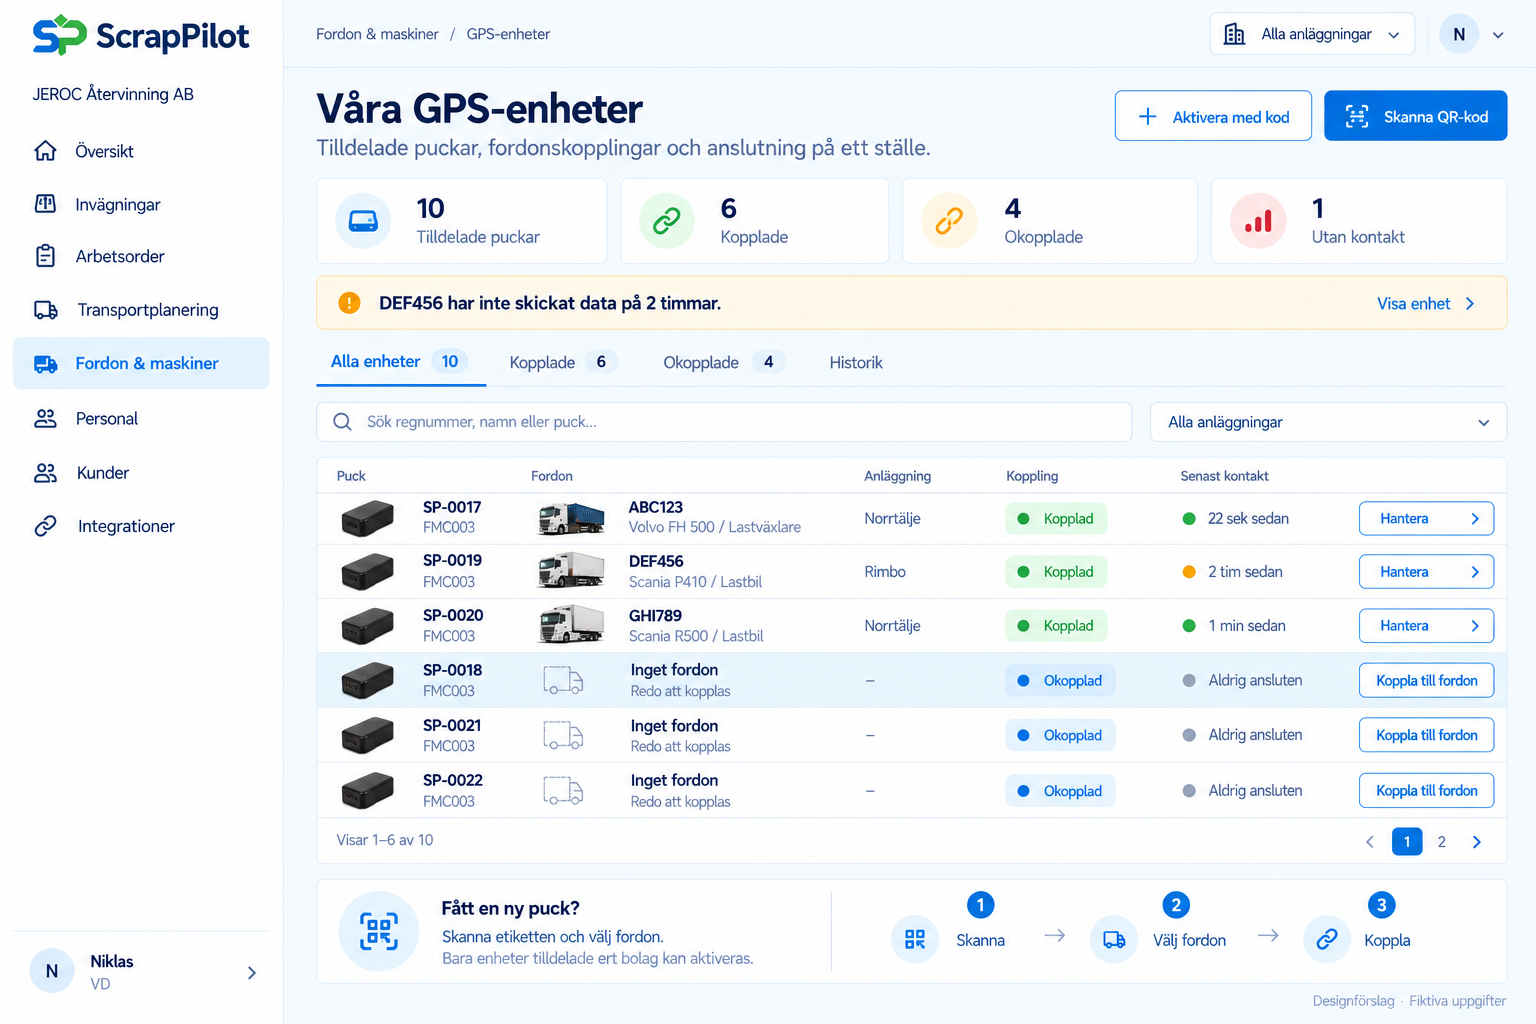
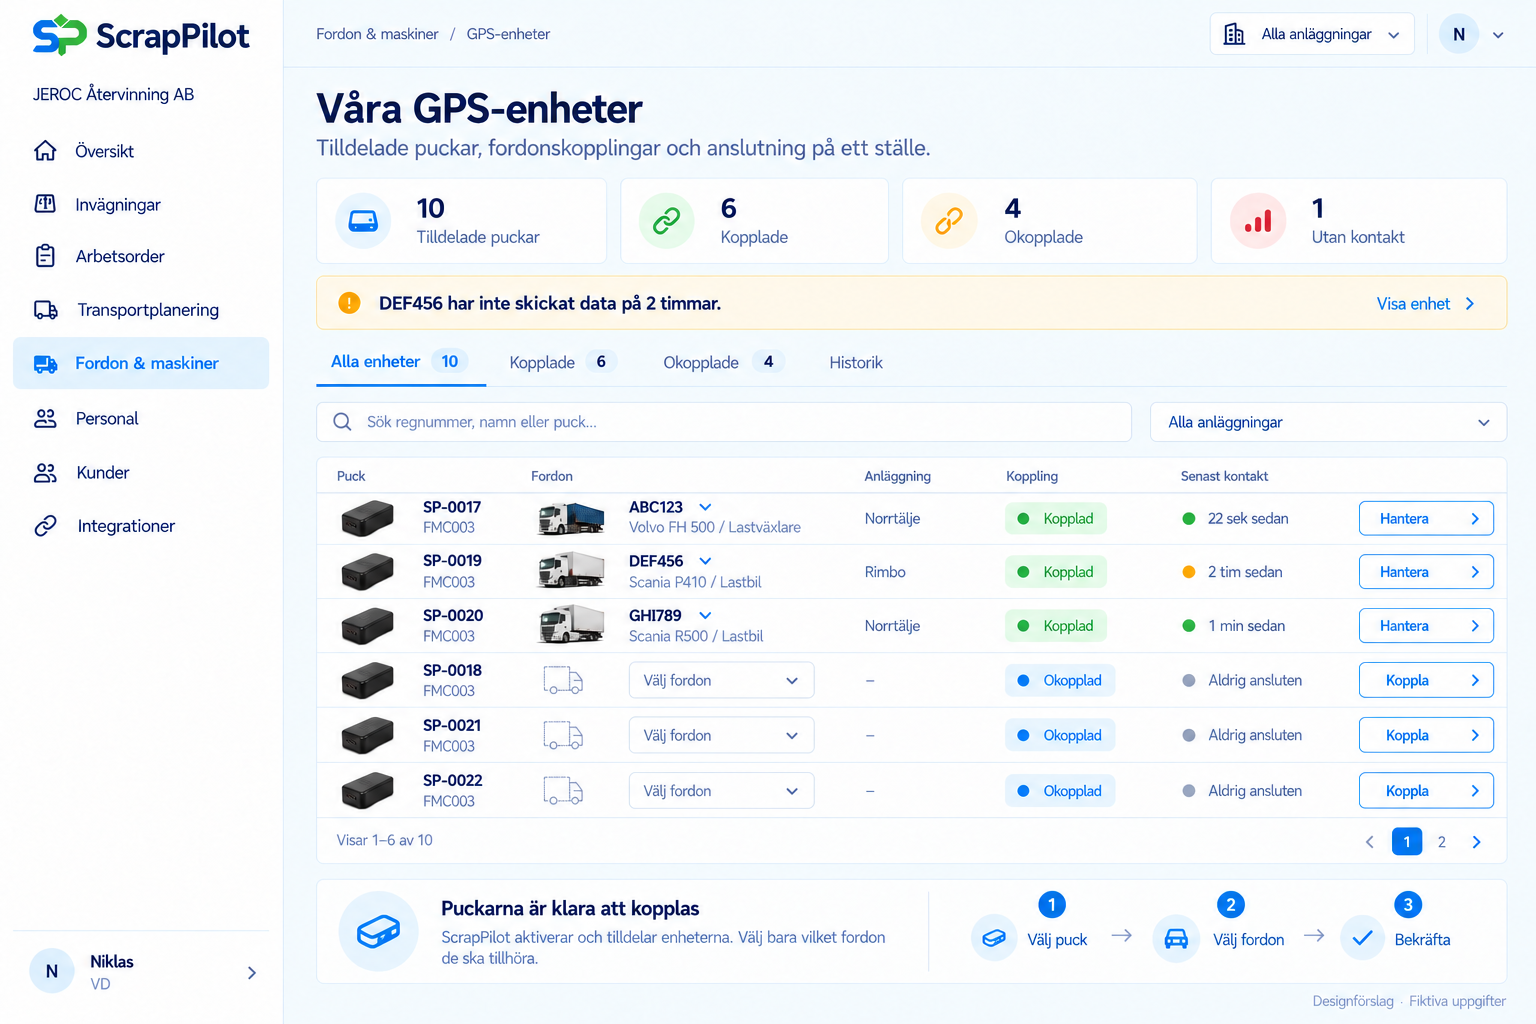
docs: centralize tracker activation and define vehicle transfer workflow

diff --git a/docs/integrationer/telematik/enhetskoppling.md b/docs/integrationer/telematik/enhetskoppling.md
@@ -1,0 +1,67 @@
+# Enhetskoppling och fordonsbyte
+
+**Designkrav för granskning – inte implementerad funktion.** Underlaget beskriver hur en redan förberedd telematikpuck ska kopplas till och flyttas mellan befintliga fordon. Det aktiverar ingen fysisk enhet eller produktionskoppling.
+
+## Ansvar och ordinarie koppling
+
+**SaaS-/systemadmin förbereder enheten:** SIM och abonnemang aktiveras, APN, serveradress, enhetsprofil och säker transport konfigureras. Därefter tilldelas pucken ett bolag. Provisionering och anslutningsskydd hanteras av systemet; IMEI är en identifierare, inte autentisering.
+
+**Bolaget kopplar ett fordon:** en behörig användare öppnar pucken i listan över bolagets egna tilldelade enheter och väljer ett befintligt fordon i dess rullgardin. Fordonsvalet är det enda ordinarie valet. Ingen QR-kod, kundaktivering eller kundkonfiguration av SIM/APN/server ingår.
+
+Rullgardinen ändrar inte kopplingen på egen hand. För en ledig puck visas en kort bekräftelse; för en redan kopplad puck öppnas rutinen **Byt fordon** med tydligt Från → Till.
+
+Första kopplingen:
+
+1. Säkerställ att fordonets motor är avstängd och installera pucken.
+2. Välj den lediga pucken och rätt fordon. Visa fordonets namn och registreringsnummer eller maskin-ID före bekräftelse.
+3. Bekräfta kopplingen. Servern kontrollerar behörighet, bolag och att både pucken och fordonet är lediga, och skapar kopplingsintervallet atomiskt.
+
+**Kopplad** och **Kontakt mottagen** är olika uppgifter. En sparad koppling får exempelvis visa *Inväntar första kontakt*. Utebliven kontakt ska ge tydlig status och felsökning, inte automatiskt byta fordon eller påstå att installationen verifierats.
+
+## Flytta en puck till ett annat fordon
+
+Bolaget gör bytet i två uttryckliga steg. Enheten får inte skriva nya resor på det nya fordonet innan båda stegen är klara.
+
+| Steg | Användarens åtgärd | Serverns ändring |
+| --- | --- | --- |
+| **1. Påbörja byte** | Välj nytt befintligt fordon. Säkerställ att gamla fordonets resa är avslutad och motorn avstängd. Tryck **Påbörja byte**. | Stäng gamla kopplingsintervallet, sätt pucken till **Under flytt** och reservera det nya fordonet. Allt sker i samma transaktion. |
+| **2. Bekräfta flytt** | Flytta pucken fysiskt. Med det nya fordonets motor avstängd, kontrollera valt fordon och tryck **Bekräfta flytt**. | Avsluta flyttläget och påbörja det nya kopplingsintervallet atomiskt. Visa första kontakt separat, exempelvis **Kopplad – inväntar första kontakt**. |
+
+Vid aktiv resa, påslagen motor eller okänd resstatus får normalbytet inte påbörjas. Ingen kontakt betyder inte att resan är avslutad. Ett timeoutvärde får aldrig automatiskt avsluta en verklig resa eller göra bytet tillåtet.
+
+En trasig eller försvunnen puck behöver ett separat undantagsflöde för särskilt behörig personal: uttrycklig manuell bryttid, obligatorisk orsak och spårbar granskning av osäkra resor och mätvärden. Åtgärden får inte skapa ett påhittat observerat resslut eller dölja att tiden är manuellt angiven.
+
+## Avbryt och återgå
+
+- **Före Påbörja byte:** avbryt stänger dialogen utan att ändra kopplingen.
+- **Efter Under flytt:** ett avbryt får inte automatiskt återöppna den gamla kopplingen. Systemet vet inte var pucken sitter.
+- Återgång kräver ett uttryckligt val och bekräftad fysisk återinstallation i det gamla fordonet med motorn avstängd. Servern skapar då ett nytt kopplingsintervall till det gamla fordonet och frigör reservationen av det nya.
+- Tidigare stängda intervall och flytthistoriken bevaras. Utan bekräftad återinstallation förblir pucken under flytt; ingen automatisk återkoppling sker.
+
+Flyttläget sparas på servern. Om webbläsaren stängs eller laddas om visas pucken fortfarande som **Under flytt**, med åtgärden **Fortsätt byte**. Behörig personal kan fortsätta till bekräftelse eller välja den uttryckliga återinstallationen; en klienttimeout får inte tyst återställa kopplingen.
+
+## Historik, sena paket och mätarställning
+
+Varje koppling har ett eget ID, fordon, bolag, start- och sluttid samt spårbar aktör. Historiska resor och mätningar behåller sin ursprungliga fordonskoppling; de får inte flyttas när puckens aktuella fordon ändras.
+
+Mottagaren bevarar både enhetens händelsetid och serverns mottagningstid. Sena eller buffrade poster som säkert hör till det gamla intervallet ska hänföras dit. Felställd enhetsklocka, överlappande/osäkra tider och poster runt flyttgränsen kräver granskning. En aktuell koppling får inte användas som genväg för att lägga gammal buffrad körning på det nya fordonet.
+
+Data från tiden **Under flytt** får inte skapa nya fordonsresor. De hanteras separat som flytt-/granskningsuppgifter, inte som bevis för körning med det gamla eller nya fordonet. Ett mottaget paket eller en första kontakt avslutar inte flyttläget på egen hand.
+
+Enhetens virtuella GPS-mätare kan innehålla körsträcka från det gamla fordonet. Dess absoluta värde får därför inte bli det nya fordonets mätarställning. Vid ny koppling fastställs en ny baseline och mätarkälla, exempelvis fordonsavläst OEM-värde, manuell avläsning eller virtuell sträcka från kopplingstillfället. Okänd baseline visas som okänd och kompletteras; den får inte fyllas med gamla bilens mil.
+
+**Standardföraren följer fordonet.** Puckens föregående standardförare eller senaste observerade förar-ID får inte följa med till nästa fordon. Historiska föraruppgifter bevaras på sina resor och tolkas utifrån resans tid.
+
+## Behörighet, samtidighet och säkerhet
+
+- Servern kontrollerar aktuell behörighet och åtkomst till bolagets puck och berörda fordon vid varje steg. En rullgardin i klienten är ingen behörighetskontroll.
+- En puck får ha högst en aktiv fordonskoppling och ett fordon högst en aktiv puck. En pågående flytts reservation ska också hindra konkurrerande kopplingar och byten.
+- Stängning, reservation och öppning låses och sparas atomiskt. Föråldrade val avvisas utan delvis genomfört byte. Dubbeltryck och återförsök ska vara idempotenta och återge samma bekräftade resultat.
+- Historiken visar vem som påbörjade, bekräftade, återförde eller manuellt bröt en koppling, när det skedde och eventuell orsak. En omstart eller ett anslutningsavbrott får inte återaktivera en gammal koppling.
+- **Bolagsbyte är inte ett vanligt fordonsbyte.** Det får endast göras av systemadmin i ett separat överlåtelseflöde som hanterar anslutningsuppgifter, buffrad data och säker brytpunkt. Det nya bolaget får ingen åtkomst till gamla bolagets CRM-data, resor eller historik.
+
+## Kontrollfall inför implementation
+
+Första koppling, normalt tvåstegsbyte och bekräftad återinstallation ska kunna granskas var för sig. Prova också aktiv/okänd resa, utebliven första kontakt, trasig puck med manuell bryttid, sena paket, mätarbaseline, samtidiga byten och dubbla bekräftelser. Misslyckad serverlagring ska behålla det tidigare bekräftade läget och ge ett tydligt fel; klienten får inte visa bytet som färdigt i förväg.
+
+Den befintliga [telematikgrunden](README.md) och [syntetiska mottagartjänsten](mottagartjanst.md) är separata från dessa planerade administrationsflöden.

diff --git a/docs/mockups/fordon-telematik/README.md b/docs/mockups/fordon-telematik/README.md
@@ -12,12 +12,14 @@ Sidan samlar 20 bilder för granskning av webb, app och hårdvara. Bilderna är 
 | --- | ---: | --- |
 | [Daglig webb](#daglig-webb) | 6 | Fordon, fordonskort, underhåll, körjournal, förare och karta. |
 | [Daglig app](#daglig-app) | 5 | Mitt fordon, resehistorik, komplettering och fordonskontroll. |
-| [Enhetsadmin](#enhetsadmin) | 4 | Systemadmins lager, bolagets enheter, fordonskoppling och aktivering. |
+| [Enhetsadmin](#enhetsadmin) | 4 | Systemadmins lager, bolagets enheter, fordonskoppling och fordonsbyte. |
 | [Export](#export) | 2 | Exportval och förhandsvisning av körjournal. |
 | [Test och hårdvara](#test-hardvara) | 3 | Digital testbil och ett möjligt fysiskt förarpanelskoncept. |
 | **Totalt** | **20** | **12 tidigare bilder och 8 kompletterande bilder.** |
 
 **Navigation:** Fordon & maskiner öppnar den vanliga fordonsöversikten. Körjournal och GPS-enheter hör till samma arbetsyta; GPS-enheter är en sekundär flik för administration, inte bolagets huvudingång. Systemadmins centrala enhetslager är separat.
+
+**Reviderat upplägg:** ScrapPilot förbereder, aktiverar och tilldelar puckarna till bolaget. Bolaget väljer bara fordon i en dropdown. Appaktivering och QR-engångskoder är bortvalda; bilden för detta har ersatts av ett fordonsbyte.
 
 **Gemensamt före/efter-scenario:** De tidigare appbilderna visar klockan **08:52 den 16 oktober 2026**, då två resor ännu behöver kompletteras. De nya vardags- och exportbilderna visar **09:05 samma dag**, efter att uppgifterna sparats. Exemplet gäller **Niklas**, **PQR678 · Servicebilen · VW Transporter**, med **JEROC Norrtälje** som utgångspunkt:
 
@@ -142,7 +144,9 @@ Förbered puckar, hantera enhetsprofiler och tilldela enheter till rätt bolag. 
 
 ![Bolagets tilldelade GPS-enheter med kopplade och okopplade puckar](../telematikenheter/02_Bolag_GPS_enheter.png)
 
-Bolaget ser bara sina tilldelade enheter på den sekundära fliken GPS-enheter. Livscykelstatus och anslutningsstatus är olika uppgifter; en levererad puck behöver inte vara uppkopplad.
+Bolaget ser bara sina redan aktiverade, tilldelade enheter på den sekundära fliken GPS-enheter. I fordonskolumnens dropdown väljs ett befintligt fordon. Livscykelstatus, fordonskoppling och anslutningsstatus är olika uppgifter; en levererad puck behöver inte vara uppkopplad. Kunden ska inte aktivera eller skanna enheten.
+
+En ledig puck får en kort kopplingsbekräftelse. Ändras valet för en redan kopplad puck öppnas **Byt fordon**; själva dropdownvalet flyttar inte några resor eller ändrar kopplingen direkt.
 
 [Öppna i full storlek](../telematikenheter/02_Bolag_GPS_enheter.png)
 
@@ -150,19 +154,19 @@ Bolaget ser bara sina tilldelade enheter på den sekundära fliken GPS-enheter. 
 
 ![Förslag till sökbart fordonsval vid koppling av en telematikenhet](../telematikenheter/03_Koppla_puck_till_fordon.png)
 
-Sök ett befintligt fordon och bekräfta vilken puck som ska kopplas till det. Byte av fordon får inte flytta gamla resor till den nya fordonskopplingen.
+Välj ett befintligt fordon i dropdownen och bekräfta kopplingen för en redan aktiverad puck. Tidigare resor ändras inte. Första kontakt visas separat när pucken väl är installerad och skickar data.
 
 [Öppna i full storlek](../telematikenheter/03_Koppla_puck_till_fordon.png)
 
-### 15. Aktivera puck i appen
+### 15. Flytta puck till annat fordon
 
-<img src="05_App_Aktivera_puck.png" alt="Appförslag: aktivera en tilldelad puck och koppla den till fordon" width="800">
+![Förslag till fordonsbyte med tydlig från- och tillkoppling](05_Webb_Byt_fordon.png)
 
-Förslag till aktivering efter att rätt bolag fått enheten tilldelad. QR-engångskoden hör till aktiveringen; IMEI identifierar enheten men är inte ett lösenord eller ett bevis på behörighet.
+Välj nytt fordon och se **Från → Till** innan bytet påbörjas. Den gamla resan ska vara avslutad och motorn av. **Påbörja byte** stänger den gamla kopplingen och sätter pucken **Under flytt**. Efter den fysiska flytten bekräftas det nya fordonet i steg 2, medan motorn fortfarande är av.
 
-Skanning och bekräftelse visas som två steg. Förbrukad kod kräver en ny engångskod. **Kopplingen är sparad** och **första kontakt mottagen** är separata statusar; en lyckad aktivering ska inte påstå att pucken redan är online.
+Gamla resor ligger kvar på sitt fordon. Sena eller osäkra mätpunkter får inte automatiskt hamna på det nya fordonet, och puckens gamla mätarvärde får inte bli den nya bilens mätarställning. Pågående resa eller okänt läge efter kontaktavbrott blockerar normalbytet; särskild hantering krävs för en trasig eller frånkopplad puck.
 
-[Öppna i full storlek](05_App_Aktivera_puck.png)
+[Öppna i full storlek](05_Webb_Byt_fordon.png) · [Rutin och specialfall](../../integrationer/telematik/enhetskoppling.md)
 
 <a id="export"></a>
 ## Export

diff --git a/docs/mockups/telematikenheter/README.md b/docs/mockups/telematikenheter/README.md
@@ -5,7 +5,7 @@
 Tre statiska bildmockuper framtagna 2026-10-16. Antal, enhetsuppgifter och fordonskopplingar är exempeldata. JEROC Återvinning AB används som bolagsexempel; övriga bolag är fiktiva. Vyerna beskriver ett förslag och är inte implementerad funktion; denna leverans innehåller ingen ny appkod.
 
 1. [Systemadmins enhetslager](01_Systemadmin_Enhetslager.png) – centralt förberedda puckar, import, enhetsprofiler och bolagstilldelning av flera enheter samtidigt.
-2. [Bolagets GPS-enheter](02_Bolag_GPS_enheter.png) – bolaget ser bara sina tilldelade enheter, uppdelade i kopplade och okopplade, samt QR-aktivering.
+2. [Bolagets GPS-enheter](02_Bolag_GPS_enheter.png) – bolaget ser sina redan aktiverade, tilldelade enheter och väljer befintligt fordon i en dropdown.
 3. [Koppla puck till fordon](03_Koppla_puck_till_fordon.png) – sökbart val av ett befintligt fordon med registreringsnummer och tydlig bekräftelse av kopplingen.
 
 ## Navigation och prioritering
@@ -14,9 +14,11 @@ Förtydligat med användaren 2026-10-16: **Fordon & maskiner öppnar alltid den 
 
 **GPS-enheter är en sekundär flik** i samma arbetsyta, tillsammans med befintliga flikar för service/besiktning, felanmälningar och dokument. Den ska inte vara en egen huvudpost i bolagets vänstermeny eller ersätta fordonslistan. Bild 2 och 3 visar innehållet efter att denna flik har öppnats; fliknavigationen behöver läggas till vid implementation.
 
-Enhetslager, aktivering och koppla/byta puck används vid behov av personer med behörighet, exempelvis VD eller administratör. Relevant position och anslutningsstatus kan visas på det vanliga fordonskortet utan att användaren behöver gå till enhetsadministrationen. Systemadmins centrala lager ligger fortsatt under plattformens Telematik och är separat från bolagets dagliga fordonsvy.
+Systemadmin förbereder och aktiverar puckarna samt tilldelar dem till bolag. Bolagets behöriga personer, exempelvis VD eller administratör, väljer bara vilket befintligt fordon varje tilldelad puck hör till och kan påbörja ett fordonsbyte. Relevant position och anslutningsstatus kan visas på det vanliga fordonskortet utan att användaren behöver gå till enhetsadministrationen. Systemadmins centrala lager ligger fortsatt under plattformens Telematik och är separat från bolagets dagliga fordonsvy.
 
-Bolagstilldelning sker före kundaktivering med QR-engångskod. IMEI är en identifierare och används inte som autentisering. Livscykelstatus, exempelvis förberedd eller levererad, visas separat från anslutningsstatus och senaste kontakt. Vid fordonsbyte flyttas inga tidigare resor till det nya fordonet.
+**Reviderat beslut 2026-10-16: ingen kundaktivering i app eller webb.** Kunden behöver varken QR-kod eller engångskod. IMEI är en identifierare och används inte som autentisering. Livscykelstatus, exempelvis förberedd eller levererad, visas separat från fordonskoppling, anslutningsstatus och senaste kontakt.
+
+Ett fordonsbyte har två enkla steg: påbörja bytet när gamla resan är avslutad och motorn är av, och bekräfta efter den fysiska flytten. Under tiden är pucken **Under flytt**. Gamla resor stannar på gamla fordonet; sena paket bedöms mot kopplingens tidsintervall. Se [rutinen för koppling och fordonsbyte](../../integrationer/telematik/enhetskoppling.md) och [bilden för fordonsbyte](../fordon-telematik/05_Webb_Byt_fordon.png).
 
 Mockuperna är separata från den redan byggda digitala testbilen och dess mottagare. Se [telematikens integrationsdokumentation](../../integrationer/telematik/README.md) för den befintliga lösningen.
 

diff --git a/docs/integrationer/telematik/README.md b/docs/integrationer/telematik/README.md
@@ -15,6 +15,8 @@ Statiska designförslag finns för [enhetsadministration](../../mockups/telemati
 och [körjournal i webb/app med obligatorisk resekomplettering](../../mockups/korjournal/README.md).
 De beskriver planerade vyer, inte redan implementerade appfunktioner.
 
+Beslutet för kundflödet är **central aktivering av ScrapPilot och bolagets fordonsval i dropdown**, utan kundaktivering eller QR-koder. [Koppling och säkert fordonsbyte](enhetskoppling.md) beskriver den planerade rutinen, inklusive fysisk flytt, tidsgränser och sena paket.
+
 **Status: fungerande, fristående pilotgrund med lokal simulator.** Mottagaren
 har inte startats på Render och ingen fysisk tracker är ansluten. Kontorets
 fordonsregister och appens vyer är inte kopplade till piloten ännu.
@@ -105,6 +107,8 @@ Byte av bolag/fordon är avsiktligt spärrat för en befintlig bindning.
 Avaktivering och återaktivering byter generation så att en gammal anslutning
 inte återfår skrivåtkomst. Säker överlåtelse, byte av tracker och nyckelrotation
 behöver egna historikbevarande kommandon senare.
+
+Den nya [designen för fordonsbyte](enhetskoppling.md) ändrar inte denna pilotbegränsning. Den förutsätter en framtida kopplingshistorik och serverkommandon innan bolag kan flytta en puck mellan verkliga fordon.
 
 ## Provkörning
 
